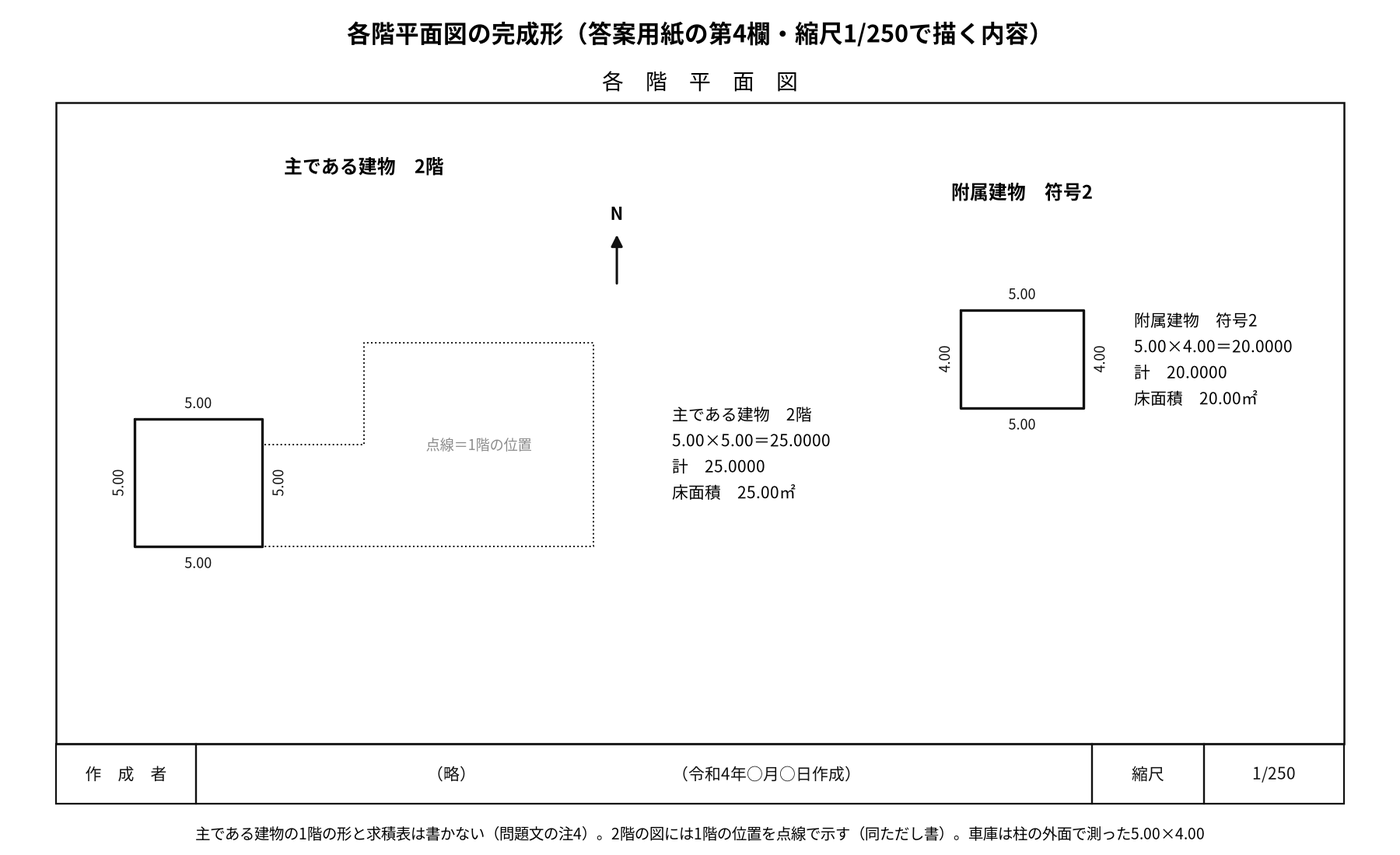
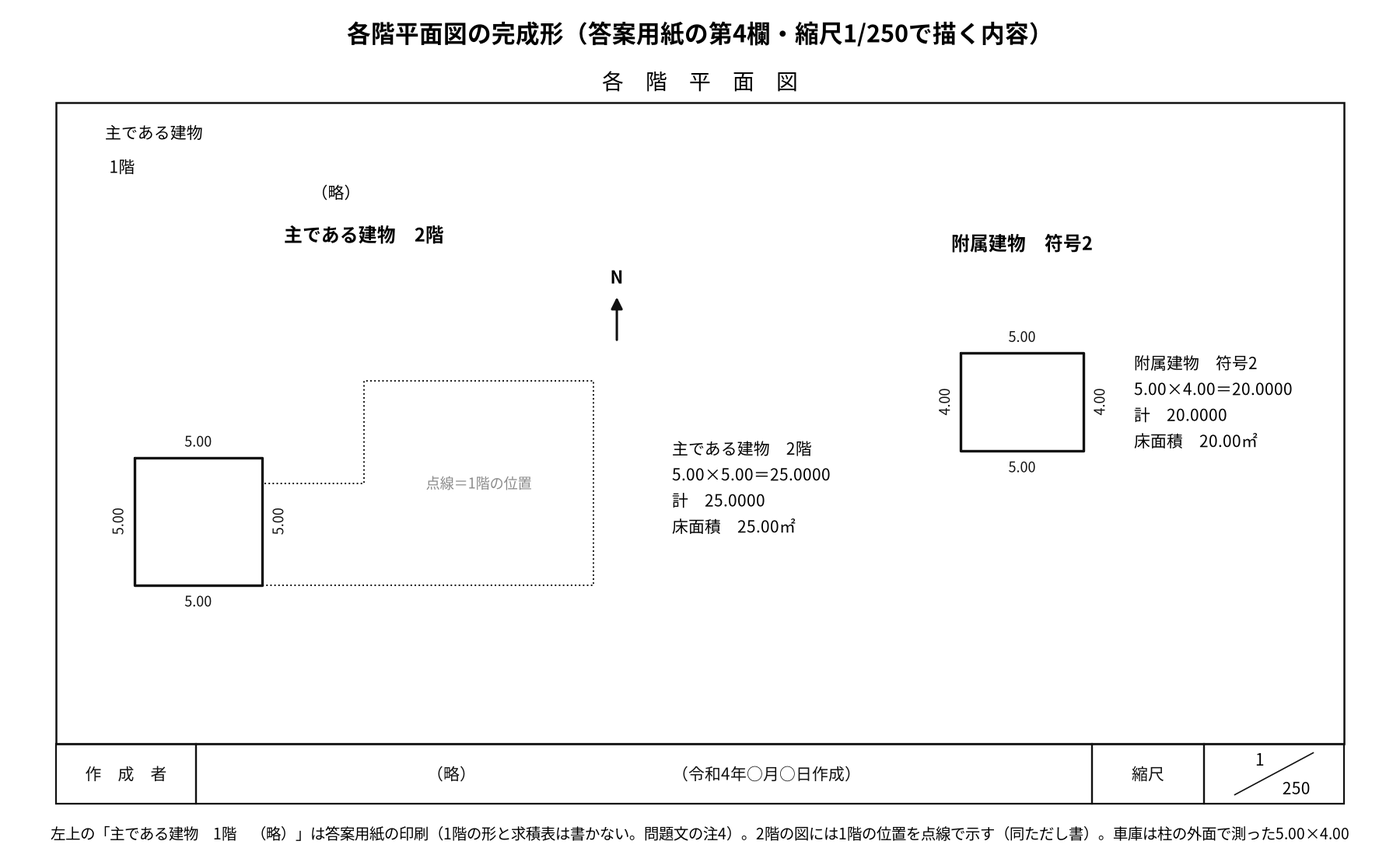
R4 Q22：試験の答案用紙の実物で欄の形を確かめ、各階平面図の左上の印刷と縮尺の分数を再現した
申請書・第2欄・第3欄・第4欄の欄の並びは仮の形と一致。各階平面図の欄の左上に印刷された「主である建物　1階　（略）」と縮尺の分数の印刷を図3・図7・記事に反映し、仮の記述を削った。照合スクリプトで答案用紙PDFの印刷文字を確かめるようにした。答えは変えていない（verify NG 0件、lint違反なし、重なり0件）。

Claude-Session: https://claude.ai/code/session_014aMAcBjFaE2M2LioX2yxPf

diff --git a/note-articles-Kijyutsu/R4/Q22/zu/draw_R4_dai22mon_kaisetsuzu.py b/note-articles-Kijyutsu/R4/Q22/zu/draw_R4_dai22mon_kaisetsuzu.py
@@ -1,7 +1,7 @@
 """令和4年度 第22問（建物）の解説図8枚を、座標値・頂点座標から作図してPNGに書き出す。
 
 `../prompt_R4_dai22mon_kaisetsuzu.md` の図1〜図8どおり（番号は記事の挿入順）。図3（建物図面）と図7（各階平面図）の完成形は、
-答案用紙の第4欄の欄（家屋番号・建物の所在・申請人・作成者・縮尺）の形の枠の中に描く（欄の形は仮。プロンプトの図3を参照）。作図の共通部品は `tools/zu_helpers.py`。
+答案用紙の第4欄の欄（家屋番号・建物の所在・申請人・作成者・縮尺）の形の枠の中に描く（欄の形は試験の答案用紙 `../touan_youshi/` で確かめた。プロンプトの図3を参照）。作図の共通部品は `tools/zu_helpers.py`。
 敷地は〔座標値一覧表〕の (X＝北, Y＝東)。建物の平面は (東, 南)（原点＝建物全体の北西の角の壁の中心）で持ち、
 zu_helpers の (北, 東) には P()・B_() で変換する。
 建物図面の建物の位置は、筆界から外壁までの距離（〔調査図〕の（注）4）から、壁の中心線（壁厚0.15の半分＝0.075内側）、
@@ -208,13 +208,24 @@ def cell(fig, x0, y0, x1, y1, text='', fs=14, ha='center', lw=1.6, color=BLACK):
 INK = '#1a3a8f'   # 記入（濃い青）
 
 
+def scale_cell(fig, x0, y0, x1, y1, denom, fs=15):
+    """答案用紙の縮尺の欄の印刷（分子の1と分母を斜線で区切った分数の形）。"""
+    cell(fig, x0, y0, x1, y1)
+    w, h = x1 - x0, y1 - y0
+    fig.add_artist(plt.Line2D([x0 + 0.22 * w, x0 + 0.78 * w], [y0 + 0.15 * h, y0 + 0.85 * h],
+                              transform=fig.transFigure, color=BLACK, lw=1.2))
+    fig.text(x0 + 0.40 * w, y0 + 0.74 * h, '1', ha='center', va='center', fontsize=fs)
+    fig.text(x0 + 0.66 * w, y0 + 0.26 * h, str(denom), ha='center', va='center', fontsize=fs)
+
+
 def zu03():
     """建物図面の完成形（答案用紙の第4欄の右側〈建物図面〉の枠の中。塗り分けはしない）。"""
     setup_font()
     fig = plt.figure(figsize=(16, 14), dpi=100)
     fig.patch.set_facecolor('white')
     fig.suptitle('建物図面の完成形（答案用紙の第4欄・縮尺1/500で描く内容）', fontsize=22, weight='bold', y=0.985)
-    # 答案用紙の欄（家屋番号・建物の所在・申請人・縮尺）。欄の形は仮（プロンプトの図3を参照）
+    # 答案用紙の欄（家屋番号・建物の所在・申請人・縮尺）。試験の答案用紙（../touan_youshi/）の第4欄の右半分の形：
+    # 右上に家屋番号の欄（その右に「建物図面」の題）、枠の上端に建物の所在の欄、枠の下に申請人「（略）」と縮尺「1/500」（印刷）
     cell(fig, 0.06, 0.885, 0.20, 0.935, '家屋番号', fs=15)
     cell(fig, 0.20, 0.885, 0.46, 0.935, '5番3', fs=16, ha='left', color=INK)
     fig.text(0.70, 0.910, '建　物　図　面', ha='center', va='center', fontsize=20)
@@ -224,7 +235,7 @@ def zu03():
     cell(fig, 0.06, 0.035, 0.20, 0.085, '申　請　人', fs=15)
     cell(fig, 0.20, 0.035, 0.74, 0.085, '（略）', fs=15)
     cell(fig, 0.74, 0.035, 0.83, 0.085, '縮尺', fs=15)
-    cell(fig, 0.83, 0.035, 0.94, 0.085, '1/500', fs=15)
+    scale_cell(fig, 0.83, 0.035, 0.94, 0.085, 500)
     ax = fig.add_axes([0.08, 0.10, 0.84, 0.72])
     z = Zu(ax, fontsize=15)
     fit(ax, SITE, margin=0.1, extra=[xy(complex(46, 44)), xy(complex(74, 90))], pad_aspect=True)
@@ -367,14 +378,18 @@ def zu07():
     fig.suptitle('各階平面図の完成形（答案用紙の第4欄・縮尺1/250で描く内容）', fontsize=22, weight='bold', y=0.975)
     fig.text(0.5, 0.905, '各　階　平　面　図', ha='center', va='center', fontsize=20)
     cell(fig, 0.04, 0.13, 0.96, 0.88, lw=1.8)
+    # 答案用紙の各階平面図の欄の左上の印刷（試験の答案用紙 ../touan_youshi/ のとおり。主である建物の1階は（略））
+    fig.text(0.075, 0.845, '主である建物', ha='left', va='center', fontsize=15)
+    fig.text(0.078, 0.805, '1階', ha='left', va='center', fontsize=15)
+    fig.text(0.24, 0.775, '（略）', ha='center', va='center', fontsize=15)
     cell(fig, 0.04, 0.06, 0.14, 0.13, '作　成　者', fs=15)
     cell(fig, 0.14, 0.06, 0.78, 0.13, '（略）　　　　　　　　　　　　（令和4年○月○日作成）', fs=15)
     cell(fig, 0.78, 0.06, 0.86, 0.13, '縮尺', fs=15)
-    cell(fig, 0.86, 0.06, 0.96, 0.13, '1/250', fs=15)
-    fig.text(0.5, 0.025, '主である建物の1階の形と求積表は書かない（問題文の注4）。2階の図には1階の位置を点線で示す（同ただし書）。'
-             '車庫は柱の外面で測った5.00×4.00', ha='center', va='center', fontsize=14)
-    ax1 = fig.add_axes([0.05, 0.17, 0.42, 0.62])
-    ax2 = fig.add_axes([0.66, 0.40, 0.14, 0.36])
+    scale_cell(fig, 0.86, 0.06, 0.96, 0.13, 250)
+    fig.text(0.5, 0.025, '左上の「主である建物　1階　（略）」は答案用紙の印刷（1階の形と求積表は書かない。問題文の注4）。'
+             '2階の図には1階の位置を点線で示す（同ただし書）。車庫は柱の外面で測った5.00×4.00', ha='center', va='center', fontsize=14)
+    ax1 = fig.add_axes([0.05, 0.16, 0.42, 0.55])
+    ax2 = fig.add_axes([0.66, 0.36, 0.14, 0.34])
     # 主である建物 2階
     z = Zu(ax1, fontsize=13)
     ax1.set_title('主である建物　2階', fontsize=17, weight='bold')
@@ -386,7 +401,7 @@ def zu07():
     dims(z, f2, ['5.00', '5.00', '5.00', '5.00'], fs=13)
     z.free_text(P(13.5, 4.0), '点線＝1階の位置', fs=13, color=GRAY)
     z.north_arrow()
-    fig.text(0.48, 0.47, '主である建物　2階\n5.00×5.00＝25.0000\n計　25.0000\n床面積　25.00㎡',
+    fig.text(0.48, 0.43, '主である建物　2階\n5.00×5.00＝25.0000\n計　25.0000\n床面積　25.00㎡',
              ha='left', va='center', fontsize=15, linespacing=1.6)
     # 附属建物 符号2（車庫）
     z2 = Zu(ax2, fontsize=13)
@@ -395,7 +410,7 @@ def zu07():
     fit(ax2, gar, margin=0.3, pad_aspect=True)
     z2.poly(gar, color=BLACK, lw=2.4)
     dims(z2, gar, ['5.00', '4.00', '5.00', '4.00'], fs=13)
-    fig.text(0.81, 0.58, '附属建物　符号2\n5.00×4.00＝20.0000\n計　20.0000\n床面積　20.00㎡',
+    fig.text(0.81, 0.53, '附属建物　符号2\n5.00×4.00＝20.0000\n計　20.0000\n床面積　20.00㎡',
              ha='left', va='center', fontsize=15, linespacing=1.6)
     assert round(area(f2), 4) == 25.00 and round(area(gar), 4) == 20.00
     save(fig, [z, z2], 'R4_dai22mon_zu07_kakukai_heimenzu')

diff --git a/note-articles-Kijyutsu/R4/Q22/zu/make_R4_dai22mon_shinseisho_gazou.py b/note-articles-Kijyutsu/R4/Q22/zu/make_R4_dai22mon_shinseisho_gazou.py
@@ -3,7 +3,8 @@
 - 完成形：`../prompt_R4_dai22mon_toukishinseisho_gazou.md` の記入データどおり。縦長（横1200px）。
   欄の形は試験の答案用紙（第1欄）に合わせる：申請の日付・提出先（令和4年10月17日　申請　Ｅ地方法務局）と
   代理人の「（略）」は印刷済み、申請人は記入枠。建物の表示は、所在1段、家屋番号、見出し
-  （主である建物又は附属建物・①種類・②構造・③床面積・原因及びその日付）、記入行5行。登録免許税の欄はない
+  （主である建物又は附属建物・①種類・②構造・③床面積・原因及びその日付）、記入行5行。登録免許税の欄はない。
+  欄の形は試験の答案用紙 `../touan_youshi/` で確かめた（答案用紙の左上の「第1欄」は、共通テンプレートのとおり画像に入れない）
 - 添削　：`../prompt_R4_dai22mon_toukishinseisho_machigai.md` どおり。①誤答・②添削・③正解の3コマを縦に積んだ縦長（横1200px）
 - 第2欄・第3欄：答案用紙はA3横で、左の列に第1欄（申請書）、右の列に第2欄（問2）・第3欄（問3）がある。申請書以外の欄は
   別の画像にし、記事の該当の問の直後に置く（R3/Q22と同じ扱い）。欄の形は答案用紙どおり（2行×4列：記号・記入・記号・記入）

diff --git a/note-articles-Kijyutsu/R4/Q22/prompt_R4_dai22mon_kaisetsuzu.md b/note-articles-Kijyutsu/R4/Q22/prompt_R4_dai22mon_kaisetsuzu.md
@@ -4,7 +4,7 @@
 
 ※画像生成AI（Midjourney、DALL·E など）では座標・辺長どおりの正確な図は描けません。このプロンプトは「座標値・辺長からプログラムで作図し、PNGに書き出す」方式です。Claude（ファイル作成とコード実行ができる環境）、またはChatGPT／Google AIのコード実行機能（Python・matplotlibを実行できるモード）で使ってください。単なる画像生成（プロンプトだけで絵を描かせる機能）には投げないこと。
 
-**生成済み（2026-09-29、2026-10-02更新）**：このプロンプトどおりの8枚を `zu/draw_R4_dai22mon_kaisetsuzu.py`（`tools/zu_helpers.py` を使用。重なりの自動検査0件・目視確認済み）で作図し、`zu/` に保存してある。数値を直すときは作図スクリプトを直して再実行する。2026-10-02に、最新の執筆プロンプト（図面の完成形は答案用紙の図面の欄の枠の中に描く、各階平面図の完成形を求積図とは別に作る、本番で解く順番の図）に合わせて、図3を描き直し、図7・図8を加えた（番号は記事の挿入順）。
+**生成済み（2026-09-29、2026-10-02更新）**：このプロンプトどおりの8枚を `zu/draw_R4_dai22mon_kaisetsuzu.py`（`tools/zu_helpers.py` を使用。重なりの自動検査0件・目視確認済み）で作図し、`zu/` に保存してある。数値を直すときは作図スクリプトを直して再実行する。2026-10-02に、最新の執筆プロンプト（図面の完成形は答案用紙の図面の欄の枠の中に描く、各階平面図の完成形を求積図とは別に作る、本番で解く順番の図）に合わせて、図3を描き直し、図7・図8を加えた（番号は記事の挿入順）。同日、ユーザーから受け取った試験の答案用紙（`touan_youshi/`）と照らし、図3・図7の欄の形を実物に合わせた（縮尺の欄を分数の形の印刷に、図7の左上に印刷の「主である建物　1階　（略）」を追加。それまで令和6年度の答案用紙にならっていた欄の配置は実物と同じだった）。
 
 - 図1：`zu/R4_dai22mon_zu01_kouji_zengo.png`
 - 図2：`zu/R4_dai22mon_zu02_shikichi_henchou.png`
@@ -116,8 +116,8 @@
 ### 答案用紙の欄の枠（執筆プロンプトの「図面の完成形の図は答案用紙の図面の欄の枠の中に」）
 
 - 図の上に「家屋番号」（記入欄に濃い青で「5番3」）、右に「建　物　図　面」の表題、その下に「建物の所在」（記入欄に濃い青で「A市B町一丁目5番地3」）
-- 図の下に「申　請　人」（「（略）」と印刷）、「縮尺」（「1/500」）
-- 欄の形の出典：令和4年度の答案用紙の第4欄は、1枚の用紙の左に各階平面図・右に建物図面を描き、上に家屋番号・建物の所在の記入欄があり、作成者と申請人は「（略）」と印刷されている（2026-09-28〜29の作業で試験の答案用紙で確かめた記録。記事の第3章・第5章の会話もこれによる）。ただし、試験の答案用紙そのものはリポジトリになく今回は見られないため、欄の細かい配置（家屋番号の欄が右上にあること、縮尺の欄の位置など）は、リポジトリにある令和6年度の答案用紙（`public/kijutsu/R06-tatemono/a2.png`。第3欄の左に各階平面図、右に建物図面、右上に家屋番号・建物の所在、下に作成者・申請人・縮尺）と、同じ扱いにした令和5年度の図（`R5/Q22/zu/`）にならった仮の形。試験の答案用紙で確かめたら、ここと作図スクリプトを合わせて直す
+- 図の下に「申　請　人」（「（略）」と印刷）、「縮尺」（分子の「1」と分母の「500」を斜線で区切った分数の形で印刷）
+- 欄の形の出典：試験の答案用紙（`touan_youshi/R4_dai22mon_touan_youshi.pdf`、A3横2ページの2ページ目）で確かめた（2026-10-02）。第4欄は1つの大きな枠の左半分が各階平面図、右半分が建物図面で（中央は枠の上下の短い区切り線だけ）、右半分の上に「家屋番号」の欄（枠の上に飛び出す）とその右の「建　物　図　面」の題、枠の上端に「建物の所在」の欄がある。家屋番号・建物の所在の欄は右上の1組だけ。枠の下に、左は「作　成　者」（「（略）」と「（令和４年○月○日作成）」を印刷）・「縮尺」（1/250）、右は「申　請　人」（「（略）」を印刷）・「縮尺」（1/500）の別々の欄。各階平面図の欄の左上に「主である建物」「１階」「（略）」が印刷されている（主である建物の1階は描かない。問題文の注4と同じ）。答案用紙の作成者・申請人は「（略）」の印刷なので、氏名は書かない
 - 図の題：「建物図面の完成形（答案用紙の第4欄・縮尺1/500で描く内容）」。答案に書く形なので、建物の塗り分けはしない
 
 ### 建物の位置の決め方（作図の根拠）
@@ -252,17 +252,17 @@
 
 ### 答案用紙の欄の枠
 
-- 枠の上に「各　階　平　面　図」、枠の下に「作　成　者」（「（略）」「（令和4年○月○日作成）」）、「縮尺」（「1/250」）。欄の形の出典は図3と同じ（仮。試験の答案用紙で確かめたら合わせて直す）。家屋番号・建物の所在の欄は、同じ用紙の右上（建物図面の上）に1つだけあり、図3に描いた
+- 枠の上に「各　階　平　面　図」、枠の下に「作　成　者」（「（略）」「（令和4年○月○日作成）」）、「縮尺」（分子の「1」と分母の「250」を斜線で区切った分数の形）。枠の左上に印刷の「主である建物」「1階」「（略）」（黒、記入ではない）。欄の形の出典は図3と同じ（試験の答案用紙 `touan_youshi/` で確かめた）。家屋番号・建物の所在の欄は、同じ用紙の右上（建物図面の上）に1つだけあり、図3に描いた
 
 ### 作図内容（建物の座標は図4・図5と同じ。上が北）
 
-- 主である建物の1階の形と求積表は書かない（問題文の注4）
+- 主である建物の1階の形と求積表は書かない（問題文の注4。答案用紙の欄の左上にも「主である建物　1階　（略）」と印刷されている）
 - 左に「主である建物　2階」：`(Y, X) = (0, 3) → (5, 3) → (5, 8) → (0, 8) → (0, 3)` を実線。辺長「5.00」×4（小数点以下第2位まで。問題文の注4）
 - 2階の図に1階の位置を点線で重ねる（問題文の注4のただし書、不動産登記規則第83条第1項）：`(5, 3) → (5, 4) → (9, 4) → (9, 0) → (18, 0) → (18, 8) → (5, 8)` の折れ線。点線の中に灰色で「点線＝1階の位置」
 - 右に「附属建物　符号2」：`(Y, X) = (0, 0) → (5, 0) → (5, 4) → (0, 4) → (0, 0)` を実線。辺長「5.00」「4.00」（柱の外面で測った寸法。図3〔各階平面見取図2〕の5.10・4.10を写さない）
 - 各図の右に求積表：「主である建物　2階／5.00×5.00＝25.0000／計　25.0000／床面積　25.00㎡」、「附属建物　符号2／5.00×4.00＝20.0000／計　20.0000／床面積　20.00㎡」
 - 塗り分け・説明の吹き出しは入れない。方位記号（N）を2階の図の余白に
-- 図の題：「各階平面図の完成形（答案用紙の第4欄・縮尺1/250で描く内容）」。図の下に「主である建物の1階の形と求積表は書かない（問題文の注4）。2階の図には1階の位置を点線で示す（同ただし書）。車庫は柱の外面で測った5.00×4.00」
+- 図の題：「各階平面図の完成形（答案用紙の第4欄・縮尺1/250で描く内容）」。図の下に「左上の「主である建物　1階　（略）」は答案用紙の印刷（1階の形と求積表は書かない。問題文の注4）。2階の図には1階の位置を点線で示す（同ただし書）。車庫は柱の外面で測った5.00×4.00」
 
 ---
 
@@ -288,7 +288,7 @@ PNGを渡す前に、次の点を自分で確認してください。
 - 図3の距離が「3.0」×2、「2.0」×2、「1.0」×2（小数点第1位）になっているか。東側の2.0が2つとも建物の南東の角から測られているか。図3に敷地の辺長を書いていないか
 - 図4の分割（5.00×5.00＋4.00×4.00＋9.00×8.00＝113.00㎡）が本文の求積表と矛盾していないか。南側の外壁が一直線で、北側は増築部分だけが元の附属建物より1.00m南へ引っ込み、元の主である建物が一番北まで出ている形になっているか（東西・南北の向きが逆になっていないか）
 - 図5で、2階が元の附属建物（西端）の真上にあり、1階の残りの部分が点線で示されているか
-- 図3・図7が答案用紙の第4欄の欄（家屋番号・建物の所在・申請人・作成者・縮尺）の枠の中に描かれ、家屋番号「5番3」・建物の所在「A市B町一丁目5番地3」が記事と一字一句同じか。図7に主である建物の1階を描いていないか、2階の図に1階の位置の点線があるか
+- 図3・図7が答案用紙の第4欄の欄（家屋番号・建物の所在・申請人・作成者・縮尺）の枠の中に描かれ、家屋番号「5番3」・建物の所在「A市B町一丁目5番地3」が記事と一字一句同じか。図7に主である建物の1階を描いていないか、2階の図に1階の位置の点線があるか。図7の左上に答案用紙の印刷「主である建物　1階　（略）」、縮尺の欄が分数の形（1/250・1/500）になっているか（試験の答案用紙 `touan_youshi/` と見比べる）
 - 図6で、誤りが5.10×4.10＝20.91、正解が5.00×4.00＝20.00になっているか。拡大図の「胴縁の中心から柱の外面まで0.05」が読み取れるか
 - 検算の参考値：図4の多角形の面積は113.00、図5の正方形は25.00、図3の主である建物の外形は113.00、車庫は20.00、図6の誤りの長方形は20.91。作図に使った座標から多角形の面積を計算し、この値と一致しなければ作図を止めて座標を見直す
 - 日本語ラベルが正しく表示されているか（文字化けがないか）

diff --git a/note-articles-Kijyutsu/R4/Q22/prompt_R4_dai22mon_toukishinseisho_gazou.md b/note-articles-Kijyutsu/R4/Q22/prompt_R4_dai22mon_toukishinseisho_gazou.md
@@ -133,6 +133,6 @@ PNGを渡す前に、次の点を自分で確認してください。
 - PNG画像（1枚）
 - 画像の元になったHTMLファイル（後で修正できるように）
 
-**生成済み（2026-09-29）**：`zu/make_R4_dai22mon_shinseisho_gazou.py`（HTML＋Playwright）で `zu/R4_dai22mon_toukishinseisho_kansei.png`（1200×1573px、縦長）と `zu/R4_dai22mon_toukishinseisho_kansei.html` を書き出してある。欄の形は試験の答案用紙（第1欄）で確認した（申請の日付・提出先と代理人の「（略）」は印刷、申請人は記入枠、所在は1段、見出しの最後の列は「原因及びその日付」、記入行5行、登録免許税の欄なし）
+**生成済み（2026-09-29）**：`zu/make_R4_dai22mon_shinseisho_gazou.py`（HTML＋Playwright）で `zu/R4_dai22mon_toukishinseisho_kansei.png`（1200×1573px、縦長）と `zu/R4_dai22mon_toukishinseisho_kansei.html` を書き出してある。欄の形は試験の答案用紙（第1欄）で確認した（申請の日付・提出先と代理人の「（略）」は印刷、申請人は記入枠、所在は1段、見出しの最後の列は「原因及びその日付」、記入行5行、登録免許税の欄なし）。2026-10-02、ユーザーから受け取った試験の答案用紙（`touan_youshi/R4_dai22mon_touan_youshi.pdf`、1ページ目の左の列）の実物と1欄ずつ照らし直し、欄の名前・順序・印刷文字（「添付書類」の欄名、申請の日付・提出先の行が申請人の上、代理人の「（略）」、所在の欄が「建物の表示」の縦の見出しの外まで広がる形、③床面積の「m²」と整数・小数の点線）がこの画像と同じであることを確かめた（違いなし）
 
-**第2欄・第3欄（2026-09-29追加）**：答案用紙はA3横で、左の列に第1欄（登記申請書）、右の列に第2欄（問2）・第3欄（問3）がある。申請書以外の欄は別の画像にして、記事の該当の問の直後に置く（R3/Q22と同じ扱い）。同じスクリプトで `zu/R4_dai22mon_dai2ran_kansei.png`（ア＝効用上一体、イ＝所有者の意思、ウ＝1個の建物、エ＝所有者）と `zu/R4_dai22mon_dai3ran_kansei.png`（①所有者、②従、③付合、④権原）を書き出してある（どちらも横1200px。欄は答案用紙どおり、記号と記入欄を交互に並べた2行×4列。ウはアガルートの解答例では「一個の建物」、記事と画像では準則第78条第1項の表記どおり「1個の建物」）
+**第2欄・第3欄（2026-09-29追加）**：答案用紙はA3横で、左の列に第1欄（登記申請書）、右の列に第2欄（問2）・第3欄（問3）がある。申請書以外の欄は別の画像にして、記事の該当の問の直後に置く（R3/Q22と同じ扱い）。同じスクリプトで `zu/R4_dai22mon_dai2ran_kansei.png`（ア＝効用上一体、イ＝所有者の意思、ウ＝1個の建物、エ＝所有者）と `zu/R4_dai22mon_dai3ran_kansei.png`（①所有者、②従、③付合、④権原）を書き出してある（どちらも横1200px。欄は答案用紙〈`touan_youshi/` の1ページ目の右の列。第2欄の下に第3欄〉どおり、記号と記入欄を交互に並べた2行×4列。ウはアガルートの解答例では「一個の建物」、記事と画像では準則第78条第1項の表記どおり「1個の建物」）

diff --git a/note-articles-Kijyutsu/R4/Q22/note_R4_dai22mon_tatemono_kaisetsu.md b/note-articles-Kijyutsu/R4/Q22/note_R4_dai22mon_tatemono_kaisetsu.md
@@ -253,9 +253,9 @@
 「各階平面図には、『主である建物　2階』と『附属建物　符号2』を見出しにして描き、辺の長さを小数第2位まで書いて、この求積表を添えるの。主である建物か附属建物かの別と附属建物の符号も、各階平面図に書く事項よ（不動産登記規則第83条第1項）。車庫の辺の長さも、柱の外面で測った『5.00』『4.00』よ。図3の5.10をそのまま写さないこと。縮尺は250分の1、建物図面の500分の1と取り違えないようにね」
 
 **藍子**  
-「第4欄の上の『家屋番号』と『建物の所在』の欄も書くんですよね。家屋番号は『5番3』、建物の所在は『A市B町一丁目5番地3』。作成者と申請人の欄は（略）と印刷されているので書きません」
+「第4欄の上の『家屋番号』と『建物の所在』の欄も書くんですよね。家屋番号は『5番3』、建物の所在は『A市B町一丁目5番地3』。作成者と申請人の欄は（略）と印刷されているので書きません。各階平面図の欄の左上にも『主である建物　1階　（略）』と印刷されているから、描くのは2階と車庫だけですね」
 
-> 【画像挿入】各階平面図の完成形（答案用紙の第4欄の各階平面図の枠の中。下に作成者「（略）」・縮尺1/250）。「主である建物　2階」の5.00×5.00を実線で描いて1階の位置を点線で重ね、「附属建物　符号2」の5.00×4.00と、それぞれの求積表（25.00㎡・20.00㎡）を添えた図。主である建物の1階は描かない
+> 【画像挿入】各階平面図の完成形（答案用紙の第4欄の各階平面図の枠の中。左上に印刷の「主である建物　1階　（略）」、下に作成者「（略）」・縮尺1/250）。「主である建物　2階」の5.00×5.00を実線で描いて1階の位置を点線で重ね、「附属建物　符号2」の5.00×4.00と、それぞれの求積表（25.00㎡・20.00㎡）を添えた図。主である建物の1階は描かない
 
 ---
 
